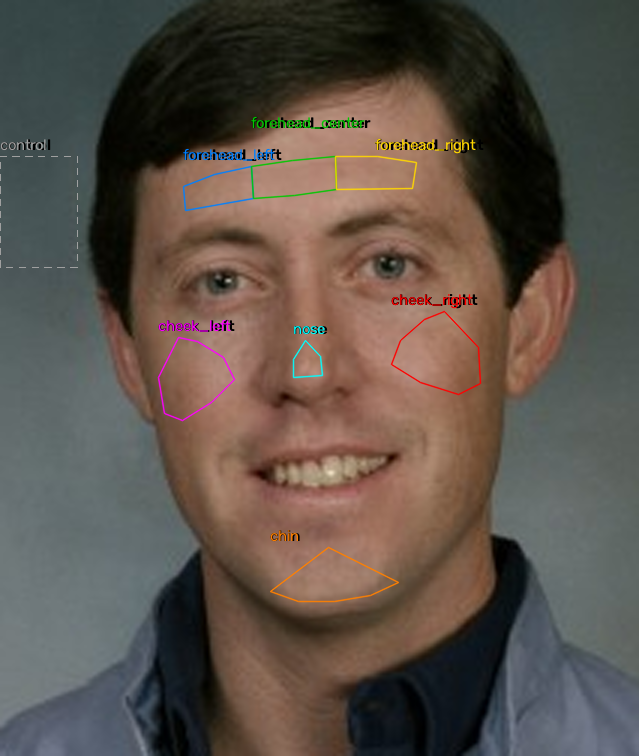
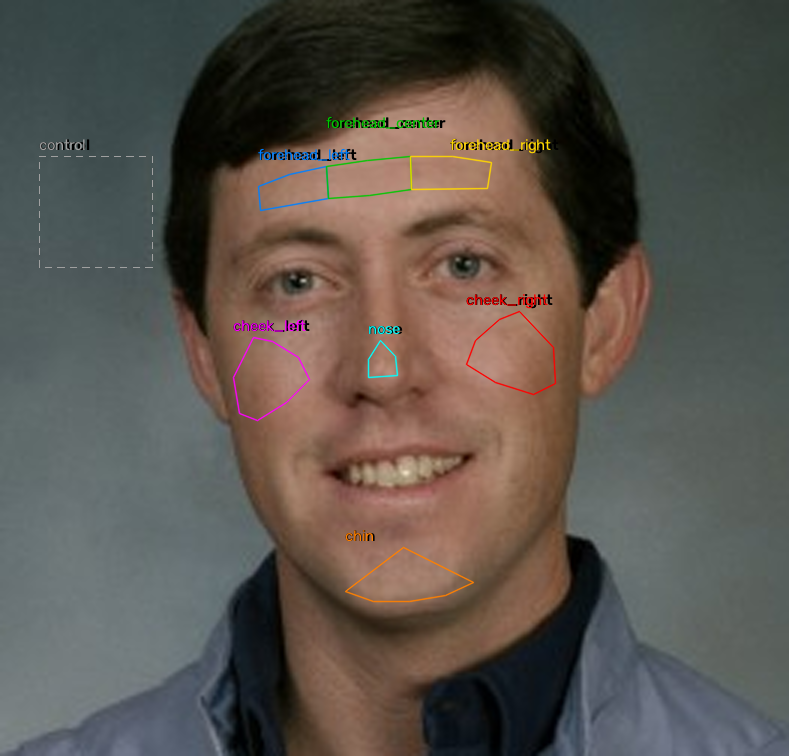
fix: deterministic control-side rule; version the traces cache
The control patch side was chosen by comparing rounded pixel areas, so
sub-pixel landmark jitter flipped it almost every frame. Choose by the
in-frame fraction instead: left while >= 90% of it is in frame, else the
better-covered side (ties left).

Traces files and cache keys now carry TRACES_VERSION (2); a file with a
missing or different version fails to load and is recomputed by the cache.
The regions figure is regenerated with a side margin wide enough to show
the whole control box.

diff --git a/src/pulsecheck/regions.py b/src/pulsecheck/regions.py
@@ -45,34 +45,52 @@ FORBIDDEN_LANDMARKS: dict[str, tuple[int, ...]] = {
 }
 
 _EMPTY = np.zeros((0, 2), np.int32)
+CONTROL_KEEP_LEFT = 0.9  # keep the left control patch while this share of it is in frame
+
+
+def _clip(points: np.ndarray, frame_shape: tuple[int, int]) -> tuple[np.ndarray, float, float]:
+    """Convex hull of ``points`` intersected with the frame rectangle.
+
+    Returns ``(polygon, clipped_area, hull_area)``; the polygon is (0, 2) if nothing is left.
+    Areas are exact (before the polygon is rounded to whole pixels).
+    """
+    h, w = frame_shape
+    hull = cv2.convexHull(np.round(points).astype(np.float32).reshape(-1, 1, 2))
+    hull_area = float(cv2.contourArea(hull))
+    frame_rect = np.array([[0, 0], [w - 1, 0], [w - 1, h - 1], [0, h - 1]], np.float32)
+    area, inter = cv2.intersectConvexConvex(hull, frame_rect.reshape(-1, 1, 2))
+    if area <= 0 or inter is None or len(inter) < 3:
+        return _EMPTY.copy(), 0.0, hull_area
+    return np.round(inter.reshape(-1, 2)).astype(np.int32), float(area), hull_area
 
 
 def _clip_hull(points: np.ndarray, frame_shape: tuple[int, int]) -> np.ndarray:
     """Convex hull of ``points`` intersected with the frame rectangle; (0, 2) if nothing is left."""
-    h, w = frame_shape
-    hull = cv2.convexHull(np.round(points).astype(np.float32).reshape(-1, 1, 2))
-    frame_rect = np.array([[0, 0], [w - 1, 0], [w - 1, h - 1], [0, h - 1]], np.float32)
-    area, inter = cv2.intersectConvexConvex(hull, frame_rect.reshape(-1, 1, 2))
-    if area <= 0 or inter is None or len(inter) < 3:
-        return _EMPTY.copy()
-    return np.round(inter.reshape(-1, 2)).astype(np.int32)
+    return _clip(points, frame_shape)[0]
 
 
 def _control_rect(landmarks: np.ndarray, frame_shape: tuple[int, int]) -> np.ndarray:
-    """Background patch beside the head at forehead height (the side with more room in frame)."""
-    h, w_frame = frame_shape
+    """Background patch beside the head at forehead height.
+
+    Two candidates: image-left and image-right of the face. The side is chosen by how much of
+    each patch lies inside the frame (clipped area / unclipped area): left whenever at least
+    ``CONTROL_KEEP_LEFT`` of it is in frame, otherwise the better-covered side (ties go left).
+    Comparing raw pixel areas instead would flip sides on sub-pixel landmark jitter whenever
+    both patches are (nearly) whole, turning the control trace into a two-level square wave.
+    """
     x0, y0 = landmarks.min(axis=0)
     x1, y1 = landmarks.max(axis=0)
     w = x1 - x0
     ya, yb = y0, y0 + 0.25 * (y1 - y0)
-    best, best_area = _EMPTY.copy(), 0.0
+    sides = []
     for xa, xb in ((x0 - 0.45 * w, x0 - 0.15 * w), (x1 + 0.15 * w, x1 + 0.45 * w)):
         rect = np.array([[xa, ya], [xb, ya], [xb, yb], [xa, yb]], np.float32)
-        poly = _clip_hull(rect, (h, w_frame))
-        area = cv2.contourArea(poly.astype(np.float32)) if len(poly) else 0.0
-        if area > best_area:
-            best, best_area = poly, area
-    return best
+        poly, area, full = _clip(rect, frame_shape)
+        sides.append((poly, area / full if full > 0 and len(poly) else 0.0))
+    (left, left_cover), (right, right_cover) = sides
+    if left_cover >= CONTROL_KEEP_LEFT or left_cover >= right_cover:
+        return left  # all-empty (0, 2) when neither side is in frame
+    return right
 
 
 def region_polygons(landmarks: np.ndarray, frame_shape: tuple[int, int]) -> dict[str, np.ndarray]:

diff --git a/src/pulsecheck/extract.py b/src/pulsecheck/extract.py
@@ -21,6 +21,10 @@ from pulsecheck.regions import ALL_REGIONS, region_means, region_polygons
 from pulsecheck.viz import draw_regions
 
 _DEFAULT_FPS = 30.0  # assumed when the source does not report a frame rate
+# Schema/behaviour version of saved traces. Bump it whenever extraction changes what a trace
+# contains (regions, landmarks, colour averaging): it is part of the cache key and stored in every
+# file, and ``RegionTraces.load`` refuses any other version. 2: deterministic control-side rule.
+TRACES_VERSION = 2
 
 
 class Tracker(Protocol):
@@ -51,6 +55,7 @@ class RegionTraces:
             with open(tmp, "wb") as f:  # a file object stops numpy appending ".npz"
                 np.savez_compressed(
                     f,
+                    traces_version=np.array(TRACES_VERSION),
                     rgb=self.rgb,
                     t=self.t,
                     region_names=np.array(self.region_names),
@@ -66,7 +71,16 @@ class RegionTraces:
 
     @classmethod
     def load(cls, path: Path) -> RegionTraces:
+        """Read a file written by ``save``.
+
+        Raises ``ValueError`` if it was written by another ``TRACES_VERSION`` (or has none).
+        """
         with np.load(Path(path), allow_pickle=False) as z:
+            version = int(z["traces_version"]) if "traces_version" in z.files else None
+            if version != TRACES_VERSION:
+                raise ValueError(
+                    f"{path}: traces version {version}, expected {TRACES_VERSION}; re-extract"
+                )
             return cls(
                 rgb=z["rgb"],
                 t=z["t"],
@@ -233,15 +247,18 @@ def extract_traces(
 def _cache_path(video_path: Path, max_seconds: float | None) -> Path:
     video_path = Path(video_path)
     stat = video_path.stat()  # FileNotFoundError for a missing video
-    key = f"{video_path.resolve()}|{stat.st_size}|{stat.st_mtime_ns}|{max_seconds}"
+    key = (
+        f"v{TRACES_VERSION}|{video_path.resolve()}|{stat.st_size}|{stat.st_mtime_ns}|{max_seconds}"
+    )
     digest = hashlib.sha1(key.encode("utf-8")).hexdigest()
     return cache_dir() / "traces" / f"{digest}.npz"
 
 
 def cached_traces(video_path: Path, **kwargs) -> RegionTraces:
-    """``extract_traces`` with results cached on disk, keyed by file identity and ``max_seconds``.
+    """``extract_traces`` with results cached on disk.
 
-    The tracker is not part of the key. When ``debug_video`` is requested the cache is bypassed
+    The key is ``TRACES_VERSION``, the file identity (path, size, mtime) and ``max_seconds``; an
+    entry from another version is treated as a miss. The tracker is not part of the key. When ``debug_video`` is requested the cache is bypassed
     for reading (the video must be rendered) but still refreshed.
     """
     max_seconds = kwargs.get("max_seconds", SETTINGS.max_seconds)
@@ -250,7 +267,7 @@ def cached_traces(video_path: Path, **kwargs) -> RegionTraces:
         try:
             return RegionTraces.load(path)
         except (OSError, ValueError, KeyError, EOFError, zipfile.BadZipFile):
-            pass  # unreadable cache entry: recompute and overwrite
+            pass  # unreadable or other-version entry: recompute and overwrite
     traces = extract_traces(video_path, **kwargs)
     traces.save(path)
     return traces

diff --git a/tests/test_extract.py b/tests/test_extract.py
@@ -168,6 +168,51 @@ def test_corrupt_cache_entry_is_recomputed(video, tmp_path, monkeypatch):
     assert RegionTraces.load(entry).rgb.shape[0] == 90
 
 
+def test_saved_traces_carry_the_schema_version(video, tmp_path):
+    a = extract_traces(video, tracker=FakeTracker(LM))
+    a.save(tmp_path / "t.npz")
+    with np.load(tmp_path / "t.npz") as z:
+        assert int(z["traces_version"]) == extract.TRACES_VERSION == 2
+
+
+def _rewrite_npz(path: Path, version: int | None) -> None:
+    """Rewrite a saved traces file with another (or no) ``traces_version``."""
+    with np.load(path) as z:
+        data = {k: z[k] for k in z.files if k != "traces_version"}
+    if version is not None:
+        data["traces_version"] = np.array(version)
+    with open(path, "wb") as f:
+        np.savez_compressed(f, **data)
+
+
+@pytest.mark.parametrize("version", [None, 1, 99])
+def test_load_rejects_missing_or_other_version(video, tmp_path, version):
+    extract_traces(video, tracker=FakeTracker(LM)).save(tmp_path / "t.npz")
+    _rewrite_npz(tmp_path / "t.npz", version)
+    with pytest.raises(ValueError, match="version"):
+        RegionTraces.load(tmp_path / "t.npz")
+
+
+@pytest.mark.parametrize("version", [None, 1])
+def test_cache_entry_with_old_version_is_a_miss(video, tmp_path, monkeypatch, version):
+    monkeypatch.setenv("PULSECHECK_DATA", str(tmp_path / "data"))
+    cached_traces(video, tracker=FakeTracker(LM))
+    (entry,) = (tmp_path / "data" / "cache" / "traces").glob("*.npz")
+    _rewrite_npz(entry, version)
+    tracker = FakeTracker(LM)
+    again = cached_traces(video, tracker=tracker)
+    assert tracker.calls == 90  # recomputed, not loaded
+    assert again.rgb.shape[0] == 90
+    assert RegionTraces.load(entry).rgb.shape[0] == 90  # rewritten with the current version
+
+
+def test_cache_key_includes_the_schema_version(video, tmp_path, monkeypatch):
+    monkeypatch.setenv("PULSECHECK_DATA", str(tmp_path / "data"))
+    before = extract._cache_path(video, 15.0)
+    monkeypatch.setattr(extract, "TRACES_VERSION", extract.TRACES_VERSION + 1)
+    assert extract._cache_path(video, 15.0) != before
+
+
 _RealCapture = cv2.VideoCapture
 
 

diff --git a/tests/test_regions.py b/tests/test_regions.py
@@ -67,3 +67,43 @@ def test_face_at_frame_edge_gives_nan_not_crash():
     m = region_means(np.full((*SHAPE, 3), 100, np.uint8), region_polygons(shifted, SHAPE))
     assert np.isnan(m[ALL_REGIONS.index("cheek_left")]).all()
     assert not np.isnan(m[ALL_REGIONS.index("cheek_right")]).any()
+
+
+def _control_side(poly: np.ndarray, landmarks: np.ndarray) -> str:
+    assert len(poly) >= 3
+    centre = poly[:, 0].mean()
+    if centre < landmarks[:, 0].min():
+        return "left"
+    assert centre > landmarks[:, 0].max()
+    return "right"
+
+
+def test_control_side_is_stable_under_landmark_jitter():
+    # Both candidate patches are fully in frame on the fixture; tiny tracker jitter must not
+    # flip the control between the two sides (that would turn its trace into a square wave).
+    rng = np.random.default_rng(0)
+    sides = set()
+    for _ in range(200):
+        jittered = (LM + rng.uniform(-0.3, 0.3, LM.shape)).astype(np.float32)
+        sides.add(_control_side(region_polygons(jittered, SHAPE)["control"], jittered))
+    assert sides == {"left"}
+
+
+def test_control_moves_right_when_face_is_at_the_left_edge():
+    shifted = LM.copy()
+    shifted[:, 0] -= LM[:, 0].min() - 0.2 * np.ptp(LM[:, 0])  # left patch mostly off-frame
+    poly = region_polygons(shifted, SHAPE)["control"]
+    assert _control_side(poly, shifted) == "right"
+
+
+def test_control_stays_left_when_mostly_covered():
+    # Left patch 0.45w..0.15w beside the face; push it 5% of w past the frame edge, which keeps
+    # 25/30 = 83% of it: below 90%, the right side (fully covered) wins.
+    w = np.ptp(LM[:, 0])
+    shifted = LM.copy()
+    shifted[:, 0] -= LM[:, 0].min() - 0.40 * w
+    assert _control_side(region_polygons(shifted, SHAPE)["control"], shifted) == "right"
+    # only 1% of w past the edge: 29/30 = 97% covered, so left is kept even though right is 100%
+    shifted = LM.copy()
+    shifted[:, 0] -= LM[:, 0].min() - 0.44 * w
+    assert _control_side(region_polygons(shifted, SHAPE)["control"], shifted) == "left"

diff --git a/scripts/make_figures.py b/scripts/make_figures.py
@@ -31,7 +31,10 @@ FIXTURES = ROOT / "tests" / "fixtures"
 OUT = ROOT / "docs" / "figures"
 SCALE = 3
 _LABEL_SHIFT = {"forehead_center": (0, -22), "forehead_right": (40, 0)}
-PAD = 0.35  # extra margin around the landmark bounding box, as a fraction of its size
+# Extra margin around the landmark bounding box, as a fraction of its width / height. The side
+# margin is wider than the control patch's outer edge (0.45 face widths beside the face), so the
+# control box is drawn whole and is chosen on the same side as in the full image.
+PAD_X, PAD_Y = 0.55, 0.35
 
 
 def make_regions_figure() -> Path:
@@ -44,7 +47,7 @@ def make_regions_figure() -> Path:
     # Crop around the head first, then upscale, then draw: lines and labels stay crisp.
     x0, y0 = landmarks.min(axis=0)
     x1, y1 = landmarks.max(axis=0)
-    mx, my = PAD * (x1 - x0), PAD * (y1 - y0)
+    mx, my = PAD_X * (x1 - x0), PAD_Y * (y1 - y0)
     cx0, cy0 = max(int(x0 - mx), 0), max(int(y0 - my), 0)
     cx1, cy1 = min(int(x1 + mx), w), min(int(y1 + my), h)
     crop = cv2.resize(
